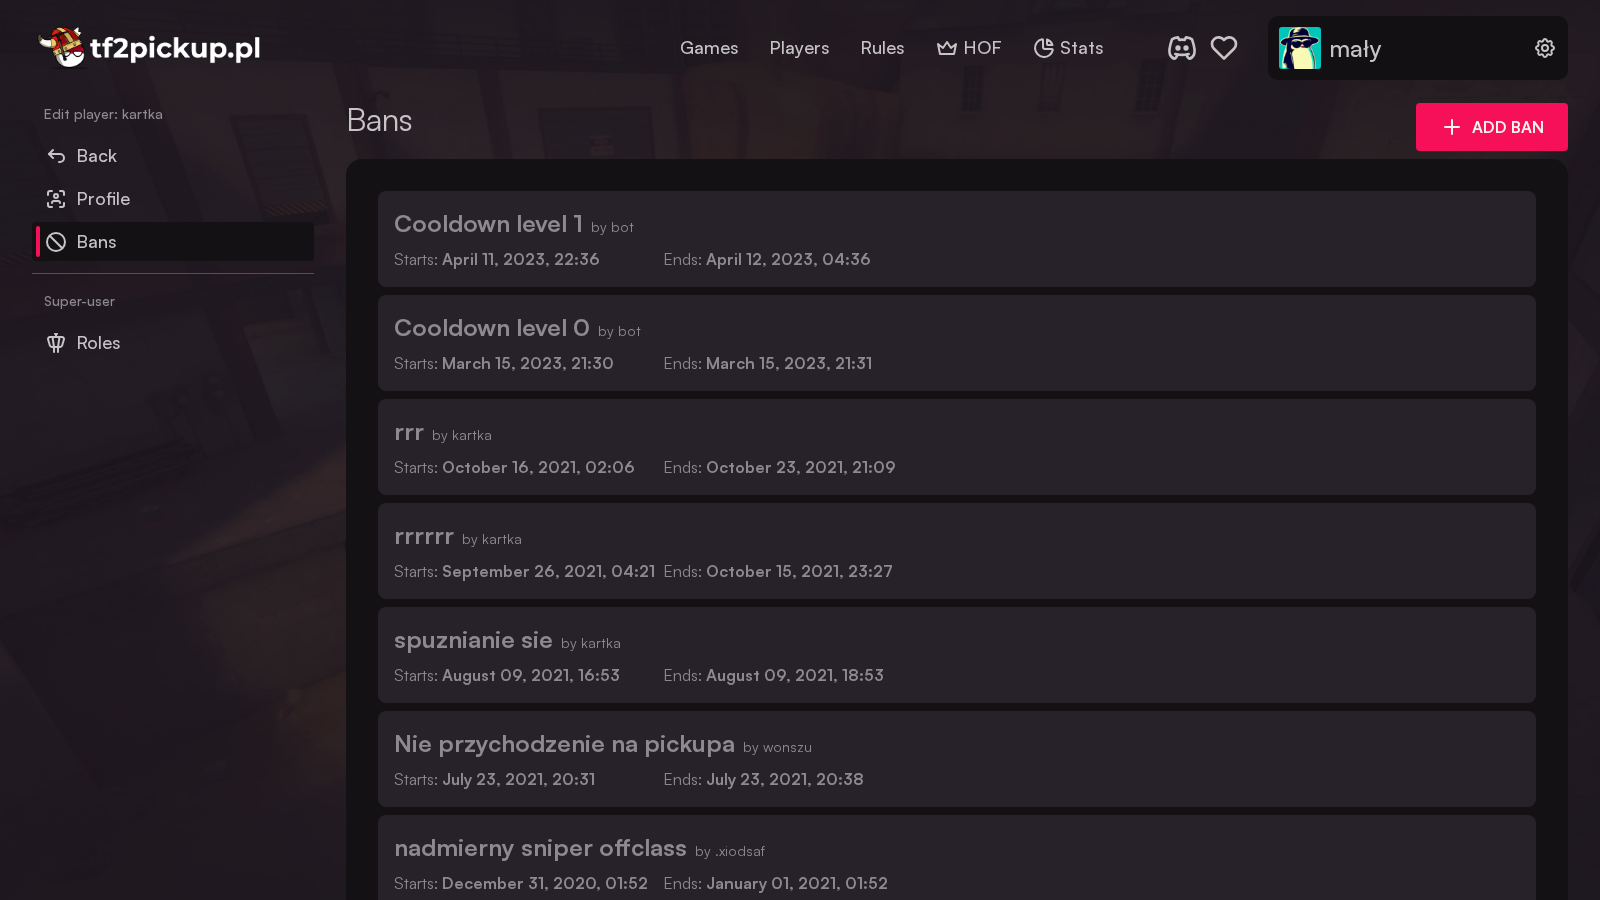
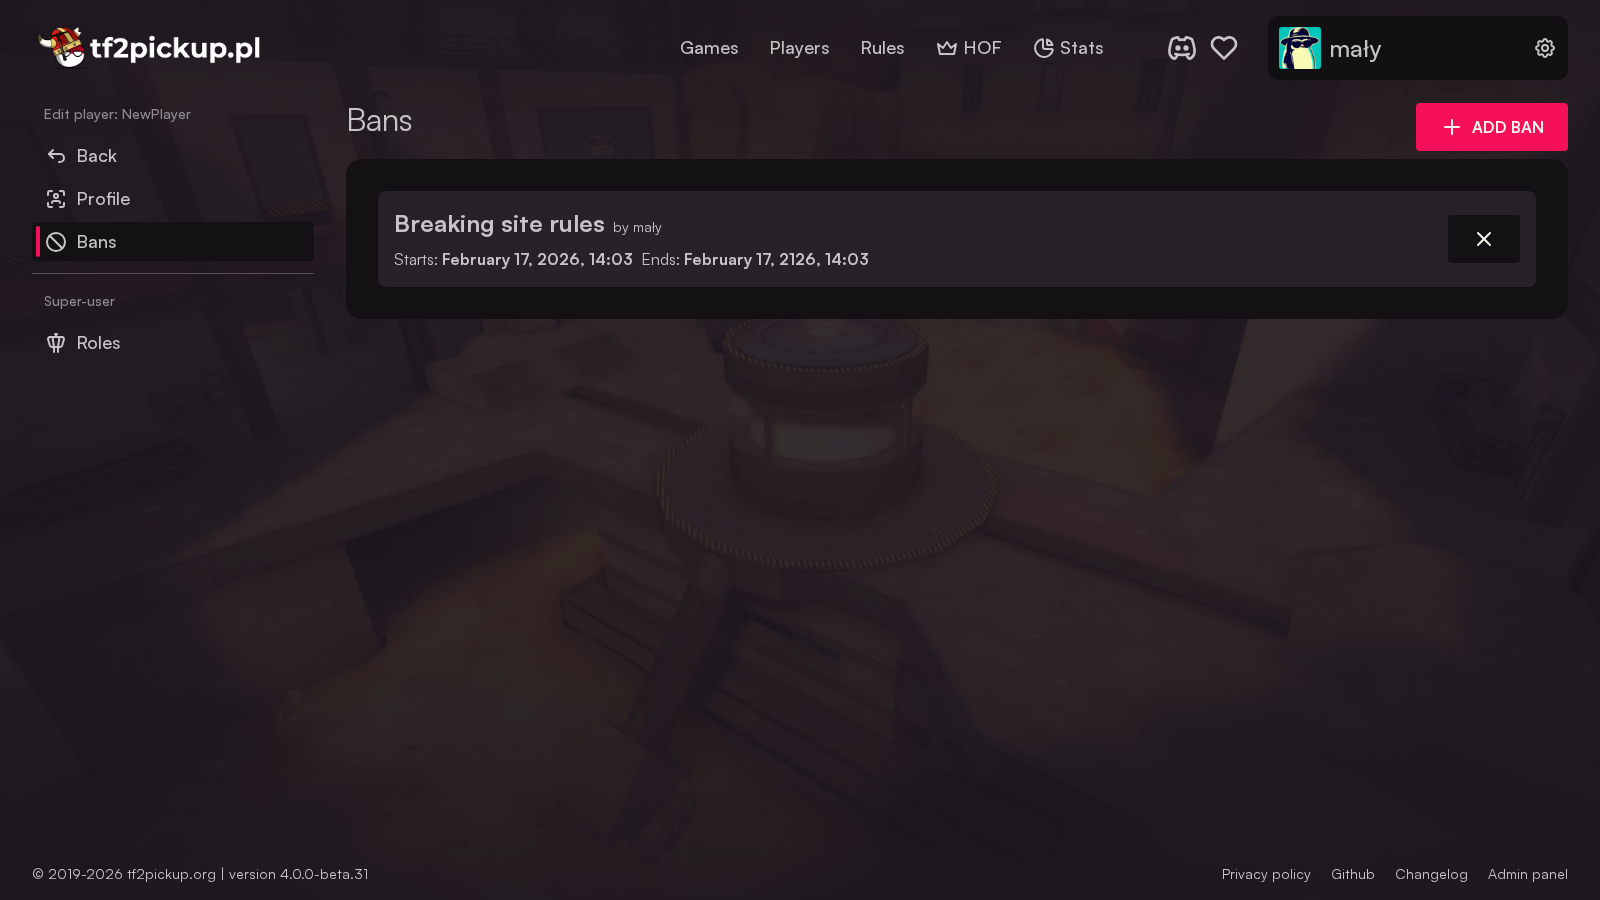
docs: update ban flow for v4 UI
Update "Handing out bans" section to reflect v4 flow (Edit player ->
Bans tab -> Add ban). Capture ban list from NewPlayer showing the
revoke button, and hide browser notifications banner in the banned
player perspective screenshot.

diff --git a/docs/the-most-common-tasks.md b/docs/the-most-common-tasks.md
@@ -102,11 +102,15 @@ Editing nicknames is pretty easy. All you need do is to open a player profile, c
 
 ## Handing out bans
 
-In some cases you have to ban someone from playing pickups, mostly due to breaking site rules. In order to ban someone, open up their profile and click `bans` and `add ban` in the next menu.
+In some cases you have to ban someone from playing pickups, mostly due to breaking site rules. In order to ban someone, open up their profile and click `Edit player`.
 
 ![find-profile-to-ban](/img/content/common-tasks/find-profile-to-ban.png)
 
-Then, define a ban reason and the ban length. You can define a ban length by the duration, end date or without due date, meaning someone is getting banned forever. Click `add ban` after that.
+Then navigate to the `Bans` tab and click `Add ban`.
+
+![player-bans-menu](/img/content/common-tasks/player-bans-menu.png)
+
+Define a ban reason and the ban length. You can define a ban length by the duration, end date or without due date, meaning someone is getting banned forever. Click `Save` after that.
 
 ![ban-player-duration](/img/content/common-tasks/ban-player-duration.png)
 
@@ -114,17 +118,13 @@ Then, define a ban reason and the ban length. You can define a ban length by the
 
 ![ban-player-forever](/img/content/common-tasks/ban-player-forever.png)
 
-In that way the player is banned. You can see the ban history of a certain user in that menu.
-
-![player-bans-menu](/img/content/common-tasks/player-bans-menu.png)
-
 This is what the banned user sees when banned:
 
 ![ban-from-player-perspective](/img/content/common-tasks/ban-from-player-perspective.png)
 
 ### Revoke player ban
 
-Revoking a ban on a player is pretty easy. All you have to do is to click `revoke` on an active ban from the ban history list of a certain user.
+Revoking a ban on a player is pretty easy. All you have to do is to click the revoke button on an active ban from the ban history list.
 
 ![player-bans-menu](/img/content/common-tasks/player-bans-menu.png)
 
